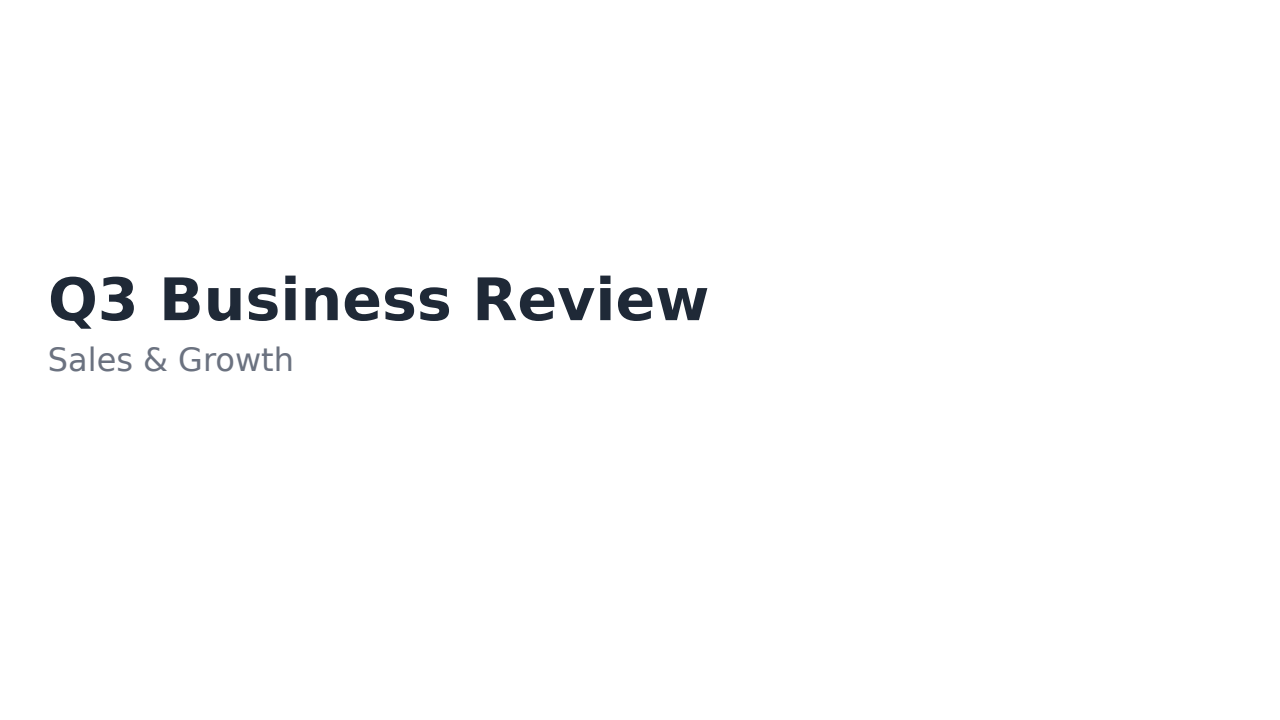
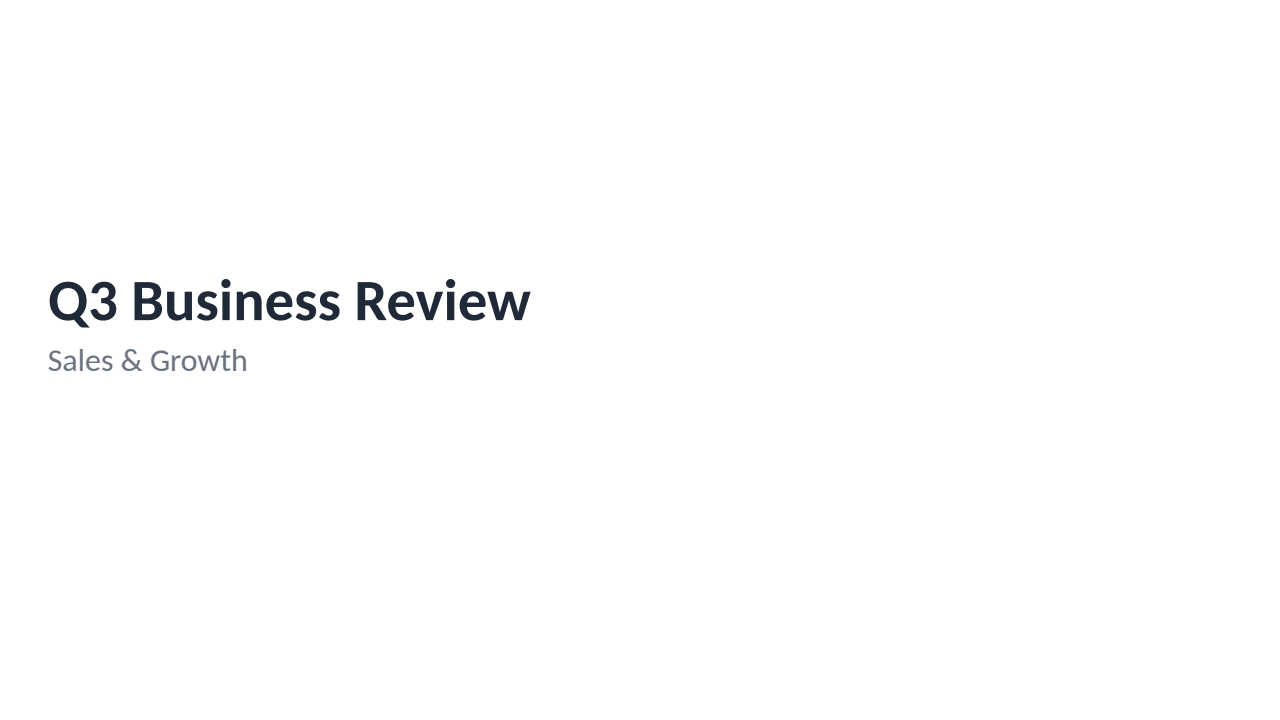
gallery: refresh (auto-arrangement v2, preview font aliases)
Claude-Session: https://claude.ai/code/session_01B3ToMAqdfZapSiHSTMKBz4

Changed region(s): [[0.0312, 0.3667, 0.5625, 0.4583], [0.0312, 0.4889, 0.25, 0.5194]]

diff --git a/README.md b/README.md
@@ -47,7 +47,7 @@ slidemark skill install      # cài skill cho Claude Code
 ## Ảnh slide mẫu (cập nhật hằng ngày)
 
 <!-- gallery:start -->
-Cập nhật: 2026-10-05 · commit `216b149` · tạo tự động bởi `scripts/gallery.py`.
+Cập nhật: 2026-10-05 · commit `8d0e87e` · tạo tự động bởi `scripts/gallery.py`.
 
 ### Cơ bản: tiêu đề, danh sách, box, bảng, biểu đồ
 
@@ -108,6 +108,16 @@ Nguồn: [`examples/08-jp-roadmap.md`](examples/08-jp-roadmap.md)
 ![08-jp-roadmap slide 1](docs/gallery/08-jp-roadmap/slide-01.png)
 ![08-jp-roadmap slide 2](docs/gallery/08-jp-roadmap/slide-02.png)
 ![08-jp-roadmap slide 3](docs/gallery/08-jp-roadmap/slide-03.png)
+
+### Theme tối (midnight): KPI, biểu đồ, Mermaid, công thức, code
+
+Nguồn: [`examples/09-midnight-tech.md`](examples/09-midnight-tech.md)
+
+![09-midnight-tech slide 1](docs/gallery/09-midnight-tech/slide-01.png)
+![09-midnight-tech slide 2](docs/gallery/09-midnight-tech/slide-02.png)
+![09-midnight-tech slide 3](docs/gallery/09-midnight-tech/slide-03.png)
+![09-midnight-tech slide 4](docs/gallery/09-midnight-tech/slide-04.png)
+![09-midnight-tech slide 5](docs/gallery/09-midnight-tech/slide-05.png)
 <!-- gallery:end -->
 
 ## Tài liệu
